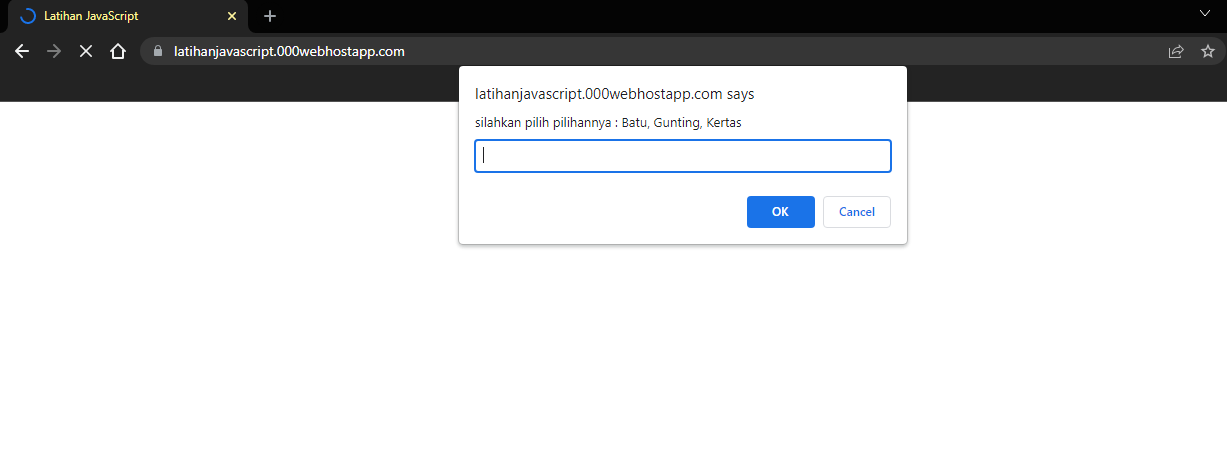
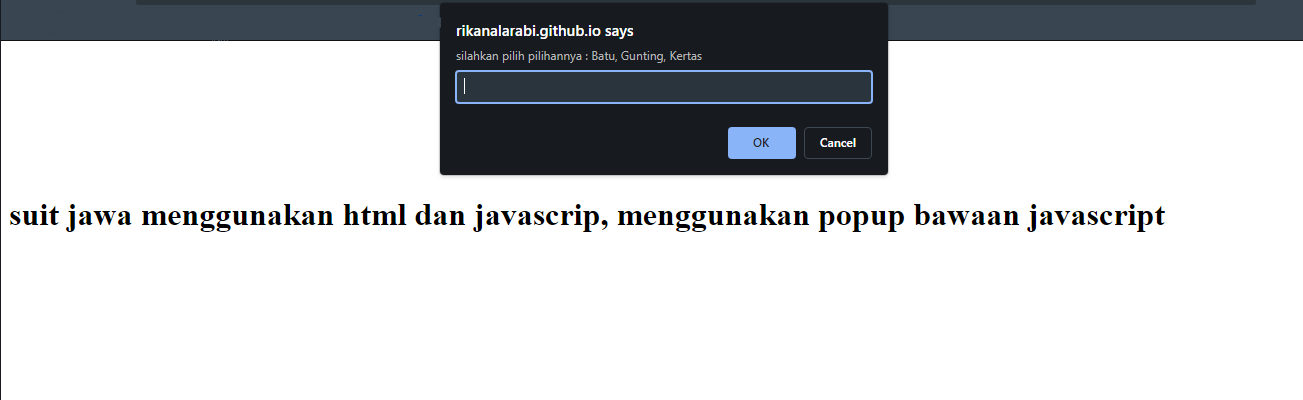
mengubah title dan menghapus poto

diff --git a/index.html b/index.html
@@ -21,10 +21,12 @@
     <nav class="navbar navbar-expand-lg navbar-dark bg-danger shadow fixed-top">
       <div class="container">
         <a class="navbar-brand" href="#">Rikan Al Arabi S.Kom</a>
+        <!-- <button class="warna">Dark Mode</button> -->
         <button class="navbar-toggler" type="button" data-bs-toggle="collapse" data-bs-target="#navbarNav" aria-controls="navbarNav" aria-expanded="false" aria-label="Toggle navigation">
           <span class="navbar-toggler-icon"></span>
         </button>
         <div class="collapse navbar-collapse" id="navbarNav">
+          <!-- <button>Dark Mode</button> -->
           <ul class="navbar-nav ms-auto">
             <li class="nav-item">
               <a class="nav-link active" aria-current="page" href="#home">Home</a>
@@ -99,11 +101,12 @@
               <li>Microsoft Office</li>
               <li>Database Mysql</li>
               <li>GitHub & GitLab</li>
-              <li>Html</li>
-              <li>CSS</li>
+              <li>Database</li>
+              <li>Html 5</li>
+              <li>CSS 3</li>
               <li>JavaScript</li>
               <li>Reach.js</li>
-              <li>Laravel</li>
+              <!-- <li>Laravel</li> -->
               <li>Tailwind CSS</li>
               <li>Bootstrap CSS</li>
               
@@ -164,16 +167,16 @@
           <div class="col-md-4 mb-3">
             <div class="card">
               <img src="img/1.png" class="card-img-top" alt="Projects1" />
-              <div class="card-body">Latihan Dasar JavaScript</p>
-                <p class="card-text"><a href="https://latihanjavascript.000webhostapp.com">https://latihanjavascript.000webhostapp.com</a></p>
+              <div class="card-body">portopolio Game sederhana html dan javascrip, menggunaka popup bawaan JavaScript</p>
+                <p class="card-text"><a href="https://rikanalarabi.github.io/Suitjawaver1/">https://rikanalarabi.github.io/Suitjawaver1/</a></p>
               </div>
             </div>
           </div>
           <div class="col-md-4 mb-3">
             <div class="card">
               <img src="img/2.png" class="card-img-top" alt="Projects2" />
-              <div class="card-body" >Pelatihan di BootCamp(link error)</p>
-                <p class="card-text"><a href="https://rikanalarabi.sanbercodeapp.com"> https://rikanalarabi.sanbercodeapp.com </a></p>
+              <div class="card-body" >portopolio game sederhana </p>
+                <p class="card-text"><a href="https://rikanalarabi.github.io/Suitjawaver2.github.io/"> https://rikanalarabi.github.io/Suitjawaver2.github.io/ </a></p>
               </div>
             </div>
           </div>

diff --git a/Stlye.css b/Stlye.css
@@ -7,10 +7,14 @@
   background-color: #e9967a;
 }
 
+#warna{
+  background : #dc3545;
+}
+
 /* #Contact  {
   background-color: #e9967a;
-  /* color : white; */
-} */
+  color : white;
+}  */
 
 section {
   padding-top: 5rem;
